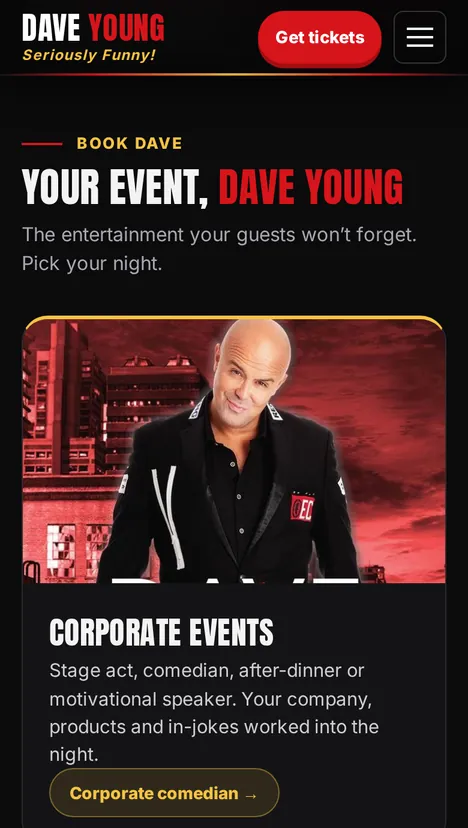
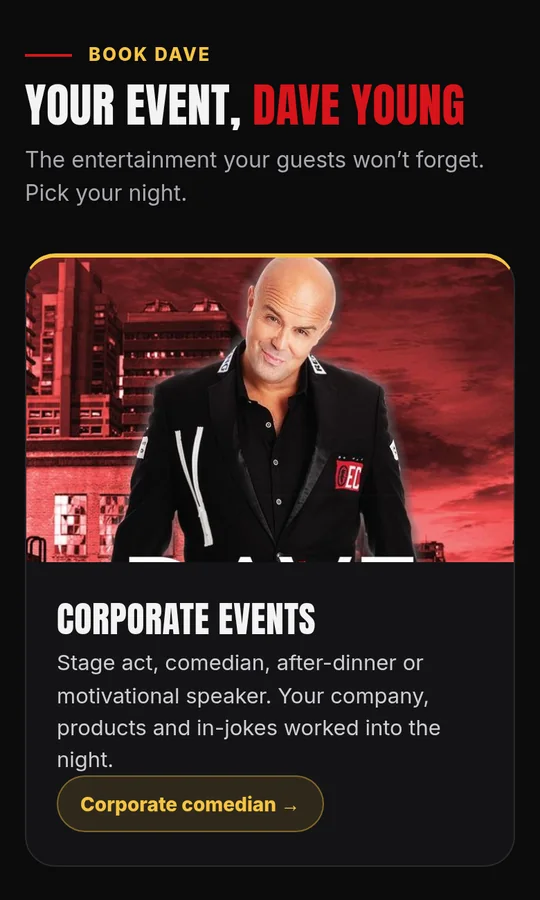
Results: clean desktop and phone Dave captures, aligned equal-height pair; test

diff --git a/tests/build.js b/tests/build.js
@@ -45,7 +45,7 @@ for(const [M,vp] of [['desktop',{width:1280,height:800}],['tablet 768',{width:76
     prices,h1:document.querySelectorAll('h1').length,ctaHero:document.querySelectorAll('.hero .btn').length,robots:document.querySelector('meta[name=robots]').content,
     secs:[...document.querySelectorAll('main>section')].map(s=>s.id),turn:/turnaround|\b\d+\s*(hours|days)\b/i.test(txt),
     imgBad:[...document.querySelectorAll('img')].filter(i=>!i.hasAttribute('alt')||!i.getAttribute('width')||!i.getAttribute('height')).length,
-    pcards:pc,deluxe:!!document.querySelector('.pcard.deluxe'),daveImgs:[...document.querySelectorAll('.case[data-tid=dave-young] img')].map(i=>[i.getAttribute('src'),i.alt.length>20&&!/christmas|xmas|unwrapped|poster/i.test(i.alt),i.getAttribute('width')+'x'+i.getAttribute('height')]),notice:(document.querySelector('.notice')||{}).innerText||'',noticeBeforeForm:!!document.querySelector('.notice+.enq'),supportNb:/not included/i.test([...document.querySelectorAll('.pcard')].find(e=>/Ongoing Support/.test(e.textContent)).textContent),refreshNb:/not included/i.test([...document.querySelectorAll('.pcard')].find(e=>/Website Refresh/.test(e.querySelector('h3').textContent)).textContent),cardFit:[...document.querySelectorAll('.pcard')].map(e=>{const kids=[...e.children],last=kids[kids.length-1].getBoundingClientRect(),r=e.getBoundingClientRect(),cta=e.querySelector('.cardcta a');return {h:Math.round(r.height),content:Math.round(last.bottom-r.top),maxGap:70,ctaGap:cta?Math.round(r.bottom-cta.getBoundingClientRect().bottom-30):999,hasCta:!!cta};}),rows:(()=>{const cs=[...document.querySelectorAll('.pcard')].map(e=>{const r=e.getBoundingClientRect(),a=e.querySelector('.amt').getBoundingClientRect(),h=e.querySelector('h3').getBoundingClientRect(),p=e.querySelector('.per').getBoundingClientRect();return {top:Math.round(r.top+scrollY),h:Math.round(r.height),amt:Math.round(a.top-r.top),h3:Math.round(h.top-r.top),per:Math.round(p.top-r.top),ah:Math.round(a.height)};});return cs;})(),navGap:Math.round(document.querySelector('nav.main a').getBoundingClientRect().left-document.querySelector('.brand').getBoundingClientRect().right),navR:Math.round(document.querySelector('nav.main').getBoundingClientRect().right),navH:Math.round(document.querySelector('nav.main').getBoundingClientRect().height),
+    pcards:pc,deluxe:!!document.querySelector('.pcard.deluxe'),daveImgs:[...document.querySelectorAll('.case[data-tid=dave-young] img')].map(i=>[i.getAttribute('src'),i.alt.length>20&&!/christmas|xmas|unwrapped|poster/i.test(i.alt),i.getAttribute('width')+'x'+i.getAttribute('height')]),notice:(document.querySelector('.notice')||{}).innerText||'',noticeBeforeForm:!!document.querySelector('.notice+.enq'),supportNb:/not included/i.test([...document.querySelectorAll('.pcard')].find(e=>/Ongoing Support/.test(e.textContent)).textContent),refreshNb:/not included/i.test([...document.querySelectorAll('.pcard')].find(e=>/Website Refresh/.test(e.querySelector('h3').textContent)).textContent),shotPair:(()=>{const im=[...document.querySelectorAll('.shots img')].map(i=>i.getBoundingClientRect()),f=document.querySelector('.shots').getBoundingClientRect();return im.length===2?{h:[Math.round(im[0].height),Math.round(im[1].height)],left:Math.round(im[0].left-f.left),right:Math.round(f.right-Math.max(im[0].right,im[1].right)),w:innerWidth}:null;})(),cardFit:[...document.querySelectorAll('.pcard')].map(e=>{const kids=[...e.children],last=kids[kids.length-1].getBoundingClientRect(),r=e.getBoundingClientRect(),cta=e.querySelector('.cardcta a');return {h:Math.round(r.height),content:Math.round(last.bottom-r.top),maxGap:70,ctaGap:cta?Math.round(r.bottom-cta.getBoundingClientRect().bottom-30):999,hasCta:!!cta};}),rows:(()=>{const cs=[...document.querySelectorAll('.pcard')].map(e=>{const r=e.getBoundingClientRect(),a=e.querySelector('.amt').getBoundingClientRect(),h=e.querySelector('h3').getBoundingClientRect(),p=e.querySelector('.per').getBoundingClientRect();return {top:Math.round(r.top+scrollY),h:Math.round(r.height),amt:Math.round(a.top-r.top),h3:Math.round(h.top-r.top),per:Math.round(p.top-r.top),ah:Math.round(a.height)};});return cs;})(),navGap:Math.round(document.querySelector('nav.main a').getBoundingClientRect().left-document.querySelector('.brand').getBoundingClientRect().right),navR:Math.round(document.querySelector('nav.main').getBoundingClientRect().right),navH:Math.round(document.querySelector('nav.main').getBoundingClientRect().height),
     posterAny:[...document.querySelectorAll('img')].some(i=>/unwrapped|poster/i.test(i.alt+i.src)),
     overflow:document.documentElement.scrollWidth>innerWidth,
     smallTap:small('header a, header button, .sticky a, .sticky button, .mnav a'),
@@ -58,7 +58,8 @@ for(const [M,vp] of [['desktop',{width:1280,height:800}],['tablet 768',{width:76
   ok(tag+': unfinished items are hidden (no TBC, draft, pending, VAT, cancellation, catch, privacy, response time, quote, figure wording)',!r.unfinished);
   ok(tag+': prices read "Shared at your free consultation" (no amounts, no quote wording)',r.prices.length===5&&r.prices.every(x=>x==='Shared at your free consultation'),r.prices.join('|'));
   ok(tag+': no phone/tap-to-call anywhere while there is no real number',r.tels===0&&r.stickyTel===0);
-  ok(tag+': Dave Young entry has only the two cropped screenshots (alt + size), no poster or Xmas tile, permission flag not in the markup',r.cases===1&&r.daveImgs.length===2&&r.daveImgs.every(x=>x[1])&&r.daveImgs[0][0]==='assets/dave_desktop.webp'&&r.daveImgs[0][2]==='650x668'&&r.daveImgs[1][0]==='assets/dave_phone.webp'&&!r.posterAny&&r.names===0&&r.permAttrs===0,JSON.stringify(r.daveImgs)+' permAttrs '+r.permAttrs);
+  ok(tag+': Dave Young entry has only the two cropped screenshots (alt + size), no poster or Xmas tile, permission flag not in the markup',r.cases===1&&r.daveImgs.length===2&&r.daveImgs.every(x=>x[1])&&r.daveImgs[0][0]==='assets/dave_desktop.webp'&&r.daveImgs[0][2]==='1100x600'&&r.daveImgs[1][0]==='assets/dave_phone.webp'&&!r.posterAny&&r.names===0&&r.permAttrs===0,JSON.stringify(r.daveImgs)+' permAttrs '+r.permAttrs);
+  ok(tag+': Dave desktop and phone shots form an aligned pair (equal height from 600px up, filling the row, no dead space)',!r.shotPair||(r.shotPair.w>=600?(Math.abs(r.shotPair.h[0]-r.shotPair.h[1])<=2&&r.shotPair.right<=2&&r.shotPair.left<=2):(r.shotPair.right<=2||r.shotPair.right<=60)),JSON.stringify(r.shotPair));
   ok(tag+': not-connected note sits above the form before any submit',/isn't connected yet/.test(r.notice)&&r.noticeBeforeForm,r.notice);
   ok(tag+': brand review not-included line on Refresh only, not on Support',r.refreshNb&&!r.supportNb);
   ok(tag+': pricing cards are sized to their content (no big empty gap, CTA at the bottom of each card)',r.cardFit.every(c=>c.h-c.content<=c.maxGap&&c.ctaGap<=40&&c.hasCta),JSON.stringify(r.cardFit));

diff --git a/index.html b/index.html
@@ -1,4 +1,4 @@
-<!doctype html><html lang="en-GB"><head><meta charset="utf-8"><meta name="viewport" content="width=device-width,initial-scale=1"><meta name="robots" content="noindex, nofollow"><meta name="theme-color" content="#0B1B3A"><title>Apex Agentics | A better website, built fast</title><meta name="description" content="Apex Agentics is a small team using agentic technology to give your website a state-of-the-art refresh, at speed."><meta property="og:title" content="Apex Agentics | A better website, built fast"><meta property="og:description" content="Apex Agentics is a small team using agentic technology to give your website a state-of-the-art refresh, at speed."><meta property="og:type" content="website"><meta property="og:image" content="https://apexagenticsuk.github.io/apexagentics-site/assets/og.jpg"><meta name="twitter:card" content="summary_large_image"><link rel="icon" href="assets/favicon.ico" sizes="any"><link rel="icon" href="assets/favicon-32.png" sizes="32x32" type="image/png"><link rel="apple-touch-icon" href="assets/icon.png"><link rel="preload" as="font" type="font/woff2" crossorigin href="assets/font_poppins_SemiBold.woff2"><link rel="stylesheet" href="style.css?v=20261017020450"><script type="application/ld+json" id="dy-ld">{"@context":"https://schema.org","@graph":[{"@type":"Organization","name":"Apex Agentics","url":"https://apexagenticsuk.github.io/apexagentics-site/","logo":"https://apexagenticsuk.github.io/apexagentics-site/assets/icon.png"},{"@type":"WebSite","name":"Apex Agentics","url":"https://apexagenticsuk.github.io/apexagentics-site/"}]}</script></head>
+<!doctype html><html lang="en-GB"><head><meta charset="utf-8"><meta name="viewport" content="width=device-width,initial-scale=1"><meta name="robots" content="noindex, nofollow"><meta name="theme-color" content="#0B1B3A"><title>Apex Agentics | A better website, built fast</title><meta name="description" content="Apex Agentics is a small team using agentic technology to give your website a state-of-the-art refresh, at speed."><meta property="og:title" content="Apex Agentics | A better website, built fast"><meta property="og:description" content="Apex Agentics is a small team using agentic technology to give your website a state-of-the-art refresh, at speed."><meta property="og:type" content="website"><meta property="og:image" content="https://apexagenticsuk.github.io/apexagentics-site/assets/og.jpg"><meta name="twitter:card" content="summary_large_image"><link rel="icon" href="assets/favicon.ico" sizes="any"><link rel="icon" href="assets/favicon-32.png" sizes="32x32" type="image/png"><link rel="apple-touch-icon" href="assets/icon.png"><link rel="preload" as="font" type="font/woff2" crossorigin href="assets/font_poppins_SemiBold.woff2"><link rel="stylesheet" href="style.css?v=20261017021947"><script type="application/ld+json" id="dy-ld">{"@context":"https://schema.org","@graph":[{"@type":"Organization","name":"Apex Agentics","url":"https://apexagenticsuk.github.io/apexagentics-site/","logo":"https://apexagenticsuk.github.io/apexagentics-site/assets/icon.png"},{"@type":"WebSite","name":"Apex Agentics","url":"https://apexagenticsuk.github.io/apexagentics-site/"}]}</script></head>
 <body>
 <header data-dy="e0" class="top"><a data-dy="e1 a0 t0" class="skip" href="#main">Skip to content</a><div data-dy="e2" class="wrap hrow">
 <a data-dy="e3 a1" class="brand" href="#top" aria-label="Apex Agentics, back to the top"><span data-dy="e4" data-cms="logo" data-tone="light"><img src="assets/logos/logo-final-light.svg" alt="Apex Agentics" width="170" height="25"></span></a>
@@ -21,7 +21,7 @@
 <div data-dy="e85" class="catch" data-cms="catch"></div>
 <p data-dy="e86 t43" class="after">Not sure which suits you? Book a free consultation and we'll talk it through.</p></div></section>
 <section data-dy="s4 e87" class="sec tint" id="results"><div data-dy="e88" class="wrap"><p data-dy="e89 t44" class="eyebrow">Results</p><div data-dy="e90" class="resintro"><h2 data-dy="e91 t45">Our first project: Dave Young.</h2><p data-dy="e92 t46" class="lead">We refreshed the website of Dave Young, an Irish comedian and entertainer (Young1 Productions): a refresh of his live site, an updated banner and the errors fixed.</p></div>
-<div data-dy="e93" class="cases" data-cms="testimonials"><article class="case" data-tid="dave-young"><figure class="shots"><img src="assets/dave_desktop.webp" alt="Screenshot of the Dave Young website preview on a computer: the Book Dave heading and the Corporate Events card" loading="lazy" width="650" height="668"><img src="assets/dave_phone.webp" alt="Screenshot of the Dave Young website preview on a phone, showing the Book Dave section with the Corporate Events card" loading="lazy" width="468" height="828"><figcaption>Preview of the refreshed site.</figcaption></figure></article></div>
+<div data-dy="e93" class="cases" data-cms="testimonials"><article class="case" data-tid="dave-young"><figure class="shots"><img src="assets/dave_desktop.webp" alt="Screenshot of the Dave Young website preview on a computer: the Book Dave heading with the Corporate Events and Weddings cards" loading="lazy" width="1100" height="600"><img src="assets/dave_phone.webp" alt="Screenshot of the Dave Young website preview on a phone: the Book Dave heading and the Corporate Events card" loading="lazy" width="540" height="900"><figcaption>Preview of the refreshed site.</figcaption></figure></article></div>
 <p data-dy="e94 t47" class="soon">More case studies coming soon.</p></div></section>
 <section data-dy="s5 e95" class="sec" id="contact"><div data-dy="e96" class="wrap narrow"><p data-dy="e97 t48" class="eyebrow">Contact</p><h2 data-dy="e98 t49">Let's talk about your website.</h2><p data-dy="e99 t50" class="lead">Tell us a little about your business and we'll come back to you<span data-dy="e100" data-cms="contact" data-view="reply"></span>.</p>
 <p data-dy="e101 t51" class="notice">This form isn't connected yet, so nothing is sent from this page.</p>
@@ -32,4 +32,4 @@
 </main>
 <footer data-dy="e22" class="dark" id="foot"><div data-dy="e23" class="wrap frow"><div data-dy="e24" class="mail" data-cms="contact" data-view="foot"><b>Apex Agentics</b></div></div></footer>
 <div data-dy="e25" class="sticky dock"><a data-dy="e26 a13 t12" class="btn red" href="#contact">Book a free consultation</a><span data-dy="e27" data-cms="contact" data-view="phone"></span></div>
-<script src="content.js?v=20261017020450" defer></script><script src="ui.js?v=20261017020450" defer></script></body></html>
+<script src="content.js?v=20261017021947" defer></script><script src="ui.js?v=20261017021947" defer></script></body></html>

diff --git a/style.css b/style.css
@@ -72,8 +72,8 @@ footer{padding:36px 0 110px}.frow .mail{display:flex;flex-wrap:wrap;gap:10px 28p
 @media (max-width:420px){.hero{min-height:520px}.hero .wrap{padding-top:48px}}
 @media print{.sticky,header.top{display:none}}
 
-.shots{display:grid;gap:14px;margin:0 0 20px;align-items:start}.shots img{width:100%;height:auto;border-radius:12px;border:1px solid var(--line)}.shots figcaption{font-size:14px;color:var(--mut)}
-@media (min-width:760px){.shots{grid-template-columns:1.5fr 1fr;max-width:900px}.shots figcaption{grid-column:1/-1}}
+.shots{display:grid;gap:16px;margin:0 0 20px;align-items:stretch}.shots img{width:100%;height:auto;border-radius:12px;border:1px solid var(--line)}.shots figcaption{font-size:14px;color:var(--mut)}
+@media (min-width:600px){.shots figcaption{grid-column:1/-1}}
 
 .notice{margin-top:22px;padding:12px 16px;border-left:4px solid var(--blue);background:var(--tint);border-radius:8px;font-size:15px;color:var(--ink)}
 .notice+.enq{margin-top:18px}
@@ -86,3 +86,7 @@ footer{padding:36px 0 110px}.frow .mail{display:flex;flex-wrap:wrap;gap:10px 28p
 
 .pcard>.cardcta{margin-top:auto;padding-top:22px}.pcard .cardcta .btn{padding:12px 18px;font-size:15px;white-space:nowrap}
 @media (min-width:760px){.deluxe .ticks{columns:2;column-gap:36px}.deluxe .ticks li{break-inside:avoid}.deluxe .pitch{max-width:760px}}
+
+.shots img{display:block}.shots img:nth-of-type(2){justify-self:center;max-width:300px}
+@media (min-width:600px){.shots img{height:100%;object-fit:cover}.shots img:nth-of-type(2){max-width:none;justify-self:stretch}.shots{grid-template-columns:1.833fr .6fr}}
+@media (max-width:599px){.shots{grid-template-columns:1fr}}

diff --git a/admin/index.html b/admin/index.html
@@ -1,5 +1,5 @@
 <!doctype html><html lang="en-IE"><head><meta charset="utf-8"><meta name="viewport" content="width=device-width,initial-scale=1"><meta name="robots" content="noindex, nofollow"><title>Website editor | Apex Agentics</title>
-<link rel="icon" href="data:,"><link rel="stylesheet" href="base.css?v=20261017020450"><link rel="stylesheet" href="shell.css?v=20261017020450"></head><body>
+<link rel="icon" href="data:,"><link rel="stylesheet" href="base.css?v=20261017021947"><link rel="stylesheet" href="shell.css?v=20261017021947"></head><body>
 <div id="login" class="login" hidden><div class="card">
   <div class="brand"><span class="d">Apex Agentics</span><small>Website editor</small></div>
   <h1>Edit your website</h1>
@@ -77,5 +77,5 @@
 <div class="row"><button class="btn red" id="seo-save">Save</button><button class="btn ghost" data-close>Cancel</button></div></div></div>
 
 <div id="dlg" class="modal dlg" hidden><div class="mc"><h2 id="dlg-t"></h2><p id="dlg-x" class="dlgtext"></p><div id="dlg-f"></div><p id="dlg-e" class="msg err"></p><div class="row" id="dlg-b"></div></div></div>
-<script>window.DY_SHELL=true;</script><script src="../content.js?v=20261017020450"></script><script src="drag.js?v=20261017020450"></script><script src="shell.js?v=20261017020450"></script><script src="shared.js?v=20261017020450"></script>
+<script>window.DY_SHELL=true;</script><script src="../content.js?v=20261017021947"></script><script src="drag.js?v=20261017021947"></script><script src="shell.js?v=20261017021947"></script><script src="shared.js?v=20261017021947"></script>
 </body></html>
